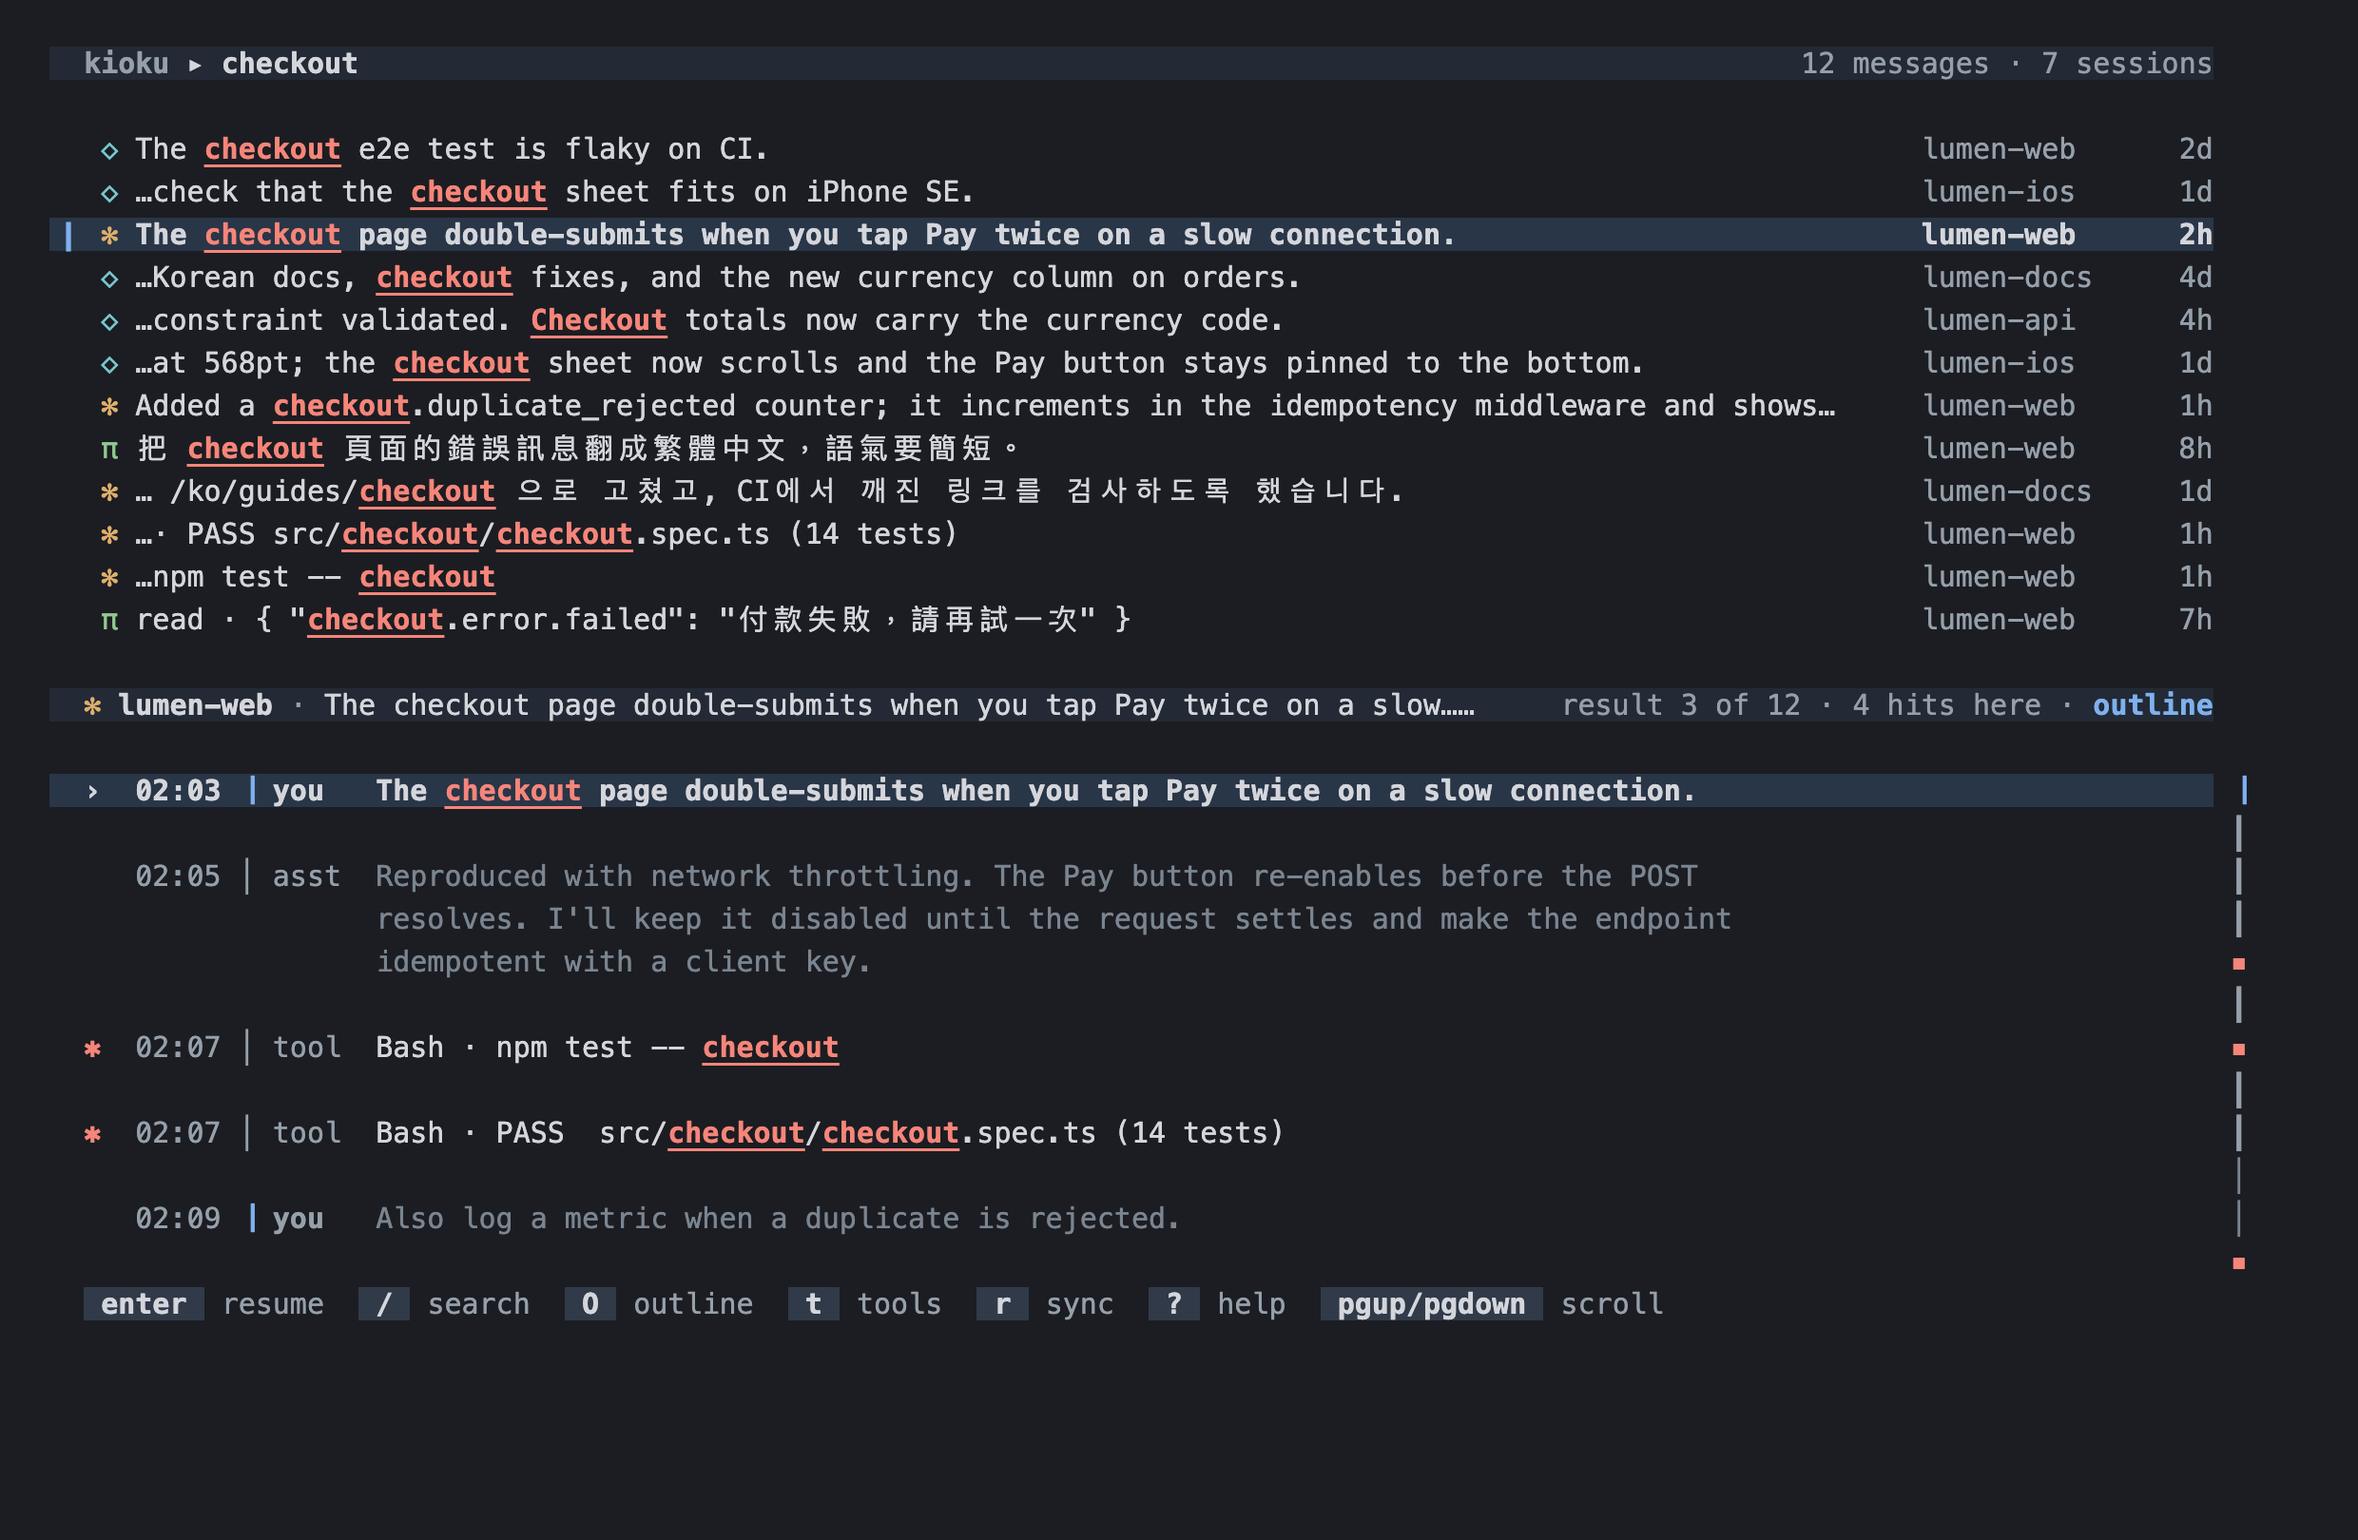
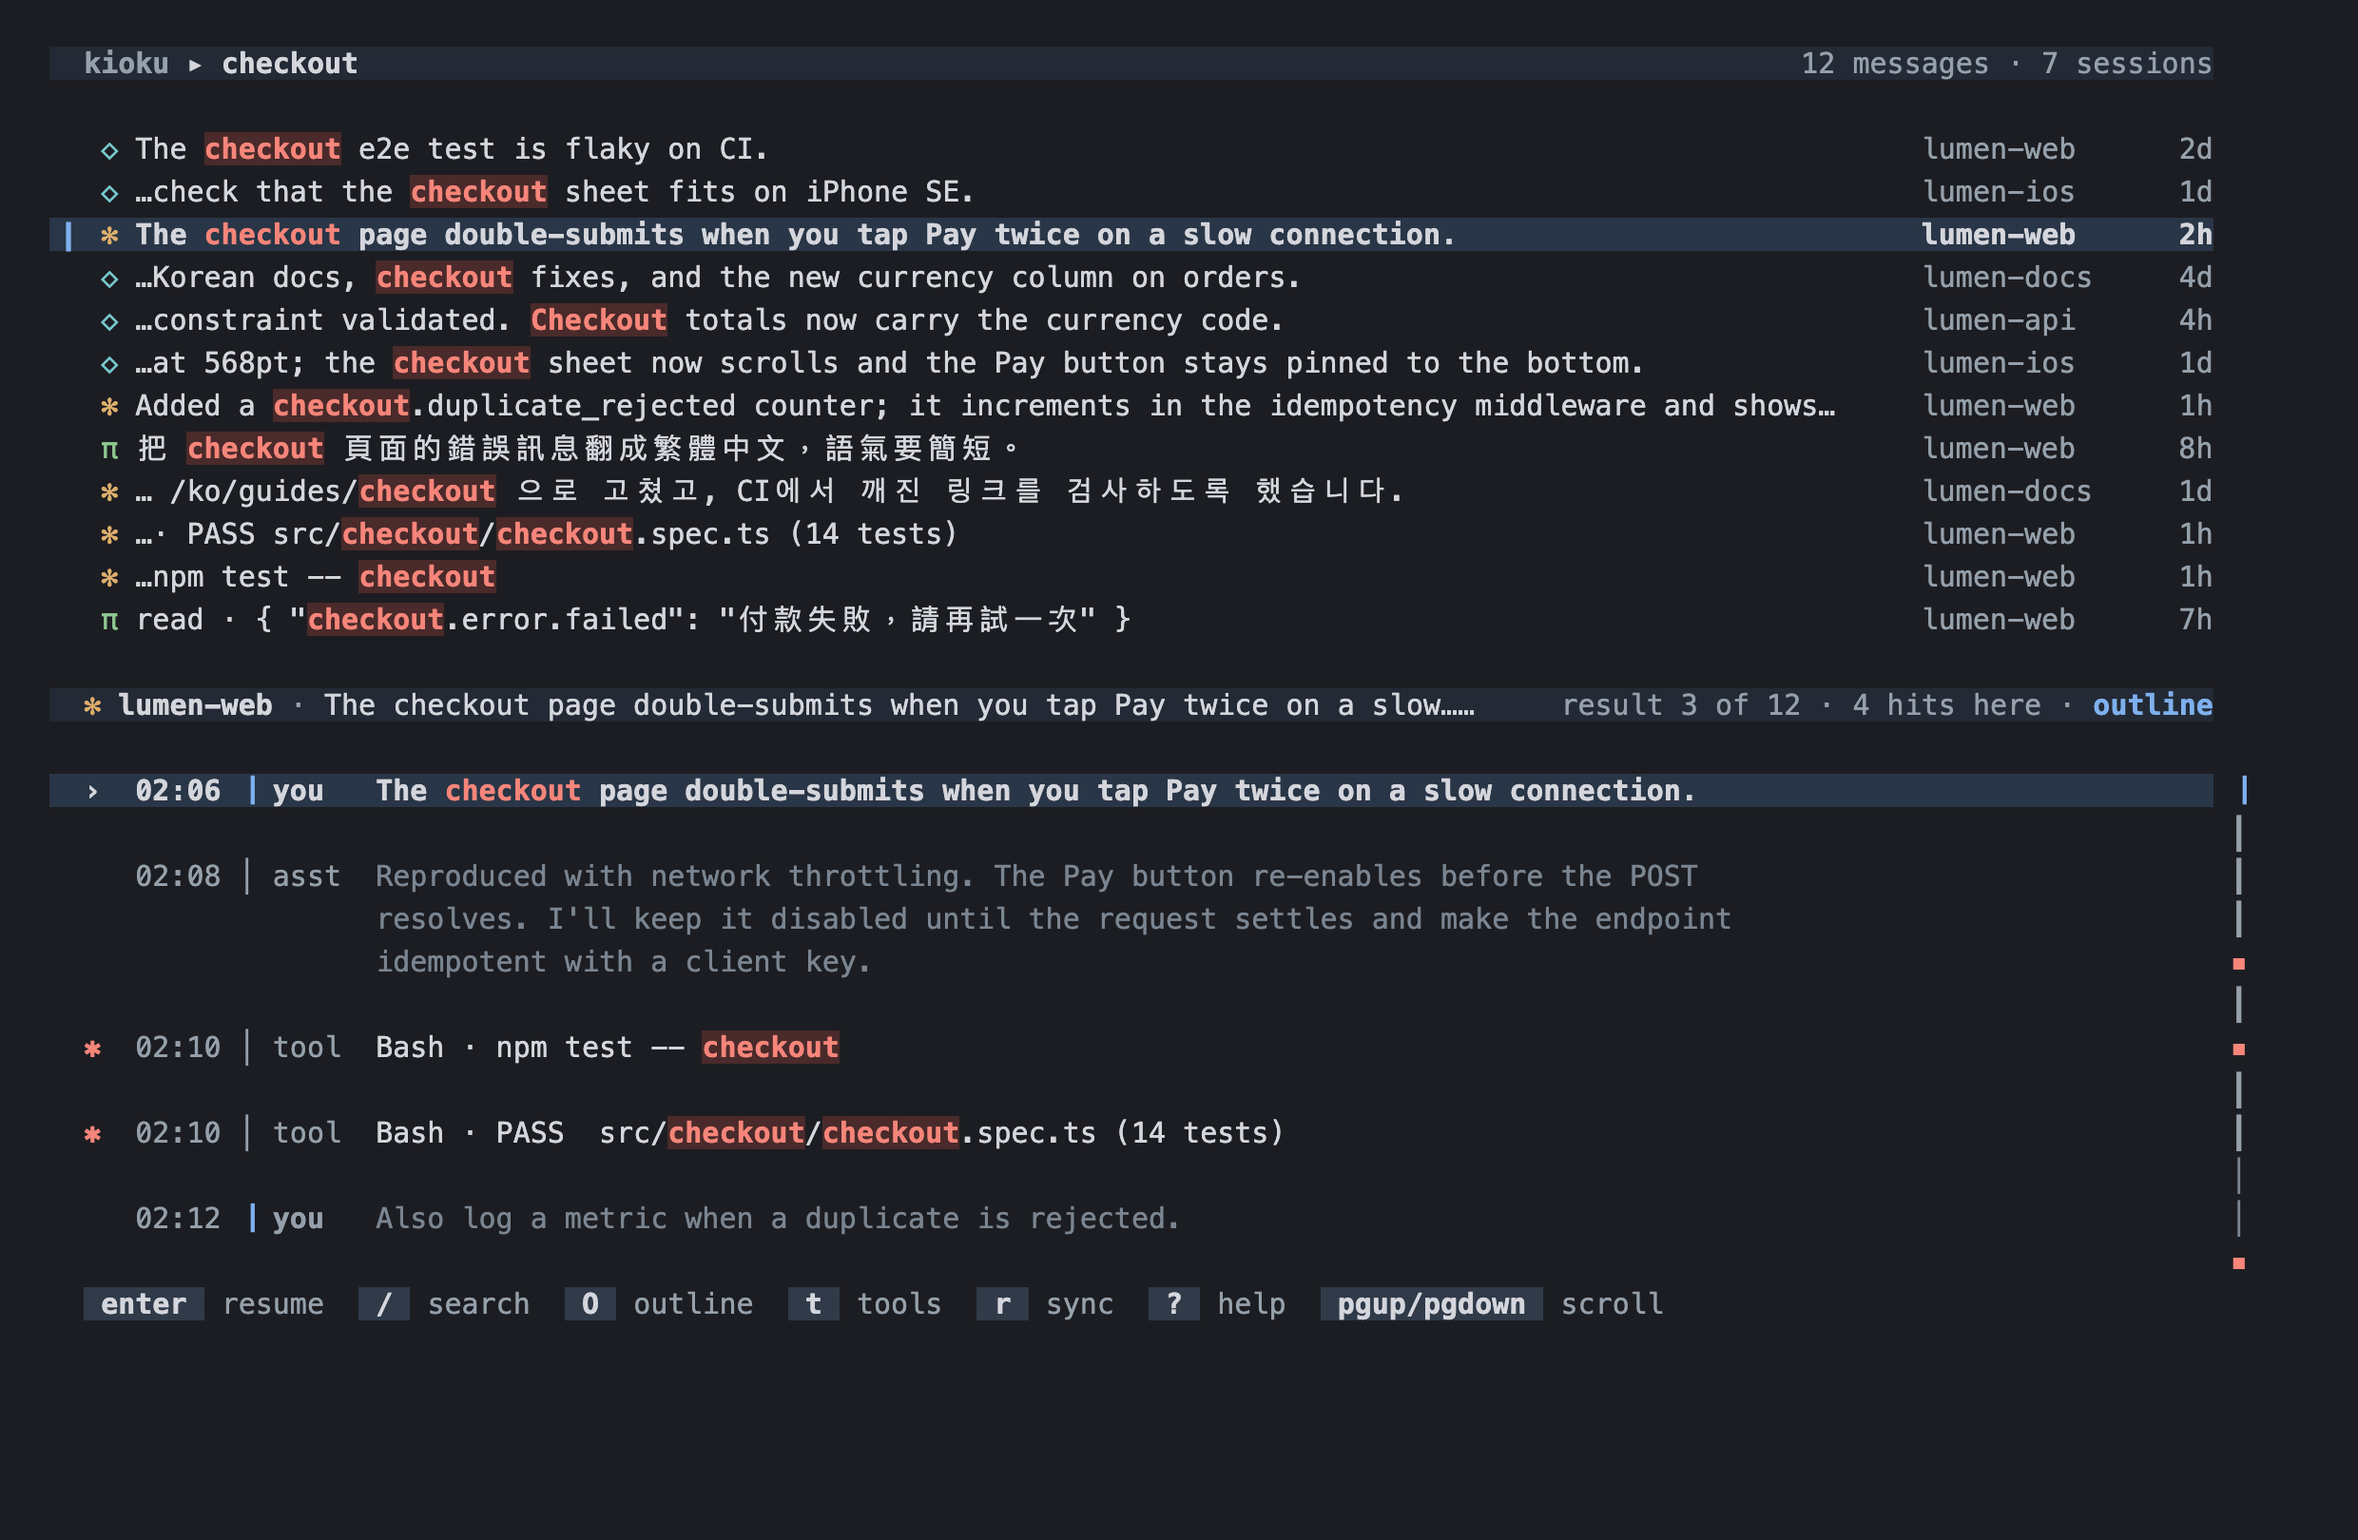
Highlight hits on a tinted background instead of underlining them

diff --git a/ui_b_test.go b/ui_b_test.go
@@ -38,27 +38,38 @@ func TestCursorByMode(t *testing.T) {
 	}
 }
 
-// B2: hit words get a plain underline in the hit colour, never a background or reverse video,
-// so the selected row's band and the hit mark do not collide.
-func TestHitsUseUnderline(t *testing.T) {
+// B2: hit words are a highlighter: hit-coloured bold text on a tinted background, with no
+// underline and no reverse video, so the selected row's band and the hit mark stay apart.
+func TestHitsUseHighlighter(t *testing.T) {
 	m := lookModel(false)
 	m.q = "world"
 	for _, selected := range []bool{false, true} {
 		out := m.paint("hello world", true, selected)
-		if strings.Contains(out, "4:3") || !strings.Contains(out, "38;2;246;133;122") || !strings.Contains(out, ";4;") && !strings.Contains(out, "[4;") && !strings.Contains(out, ";4m") {
-			t.Fatalf("selected=%v: want a plain (not curly) underline in the hit colour: %q", selected, out)
+		if !strings.Contains(out, "38;2;246;133;122") || !strings.Contains(out, "48;2;74;42;42") {
+			t.Fatalf("selected=%v: want hit colour on the highlighter background: %q", selected, out)
 		}
-		if strings.Contains(out, ";7m") || strings.Contains(out, "[7m") || strings.Contains(out, "48;") {
-			t.Fatalf("selected=%v: hit must not use reverse or a background: %q", selected, out)
+		if strings.Contains(out, "4:3") || strings.Contains(out, ";4;") || strings.Contains(out, "[4;") || strings.Contains(out, ";4m") || strings.Contains(out, ";7m") || strings.Contains(out, "[7m") {
+			t.Fatalf("selected=%v: hit must not be underlined or reversed: %q", selected, out)
 		}
 		if ansi.Strip(out) != "hello world" {
 			t.Fatalf("text changed: %q", ansi.Strip(out))
 		}
 	}
 	// With colours stripped (NO_COLOR) the hit must still differ from the text around it.
-	plain := m.paint("hello world", true, false)
-	if !strings.Contains(plain, "\x1b[1") || !strings.Contains(plain, "4") {
-		t.Fatalf("hit keeps bold and underline without colour: %q", plain)
+	if plain := m.paint("hello world", true, false); !strings.Contains(plain, "\x1b[1") {
+		t.Fatalf("hit keeps bold without colour: %q", plain)
+	}
+}
+
+// The highlighter must keep the hit text readable, and stay distinct from the selection band.
+func TestHighlighterContrast(t *testing.T) {
+	for name, p := range map[string]palette{"light": light, "dark": dark} {
+		if got := contrast(p.hit, p.hitbg); got < 3.5 {
+			t.Errorf("%s: hit on highlighter contrast %.2f < 3.5", name, got)
+		}
+		if p.hitbg == p.selbg {
+			t.Errorf("%s: highlighter equals the selection band", name)
+		}
 	}
 }
 

diff --git a/ui.go b/ui.go
@@ -19,12 +19,13 @@ type palette struct {
 	hit, muted, dim, selbg, pulse, surf, acc, key string
 	pens                                          [3]string
 	agents                                        map[string]string // glyph colour per harness; red stays reserved for hits
+	hitbg                                         string            // highlighter behind matched words
 }
 
 var light = palette{"#b6322d", "#56606a", "#727c87", "#d2e3f9", "#bfd8f8", "#eef3f9", "#2a64b0", "#e3eaf3", [3]string{"#fde89a", "#bdfac8", "#ffe0f2"},
-	harnessColors(false)}
+	harnessColors(false), "#f8d7d3"}
 var dark = palette{"#f6857a", "#95a0ab", "#7a8591", "#293647", "#364b68", "#232a35", "#7fb0ee", "#303a49", [3]string{"#3c3207", "#193b22", "#492537"},
-	harnessColors(true)}
+	harnessColors(true), "#4a2a2a"}
 
 type pen struct {
 	word  string

diff --git a/ui_text.go b/ui_text.go
@@ -140,7 +140,7 @@ func (m model) paint(s string, query, selected bool) string {
 				style = style.Bold(true)
 			}
 			if h[i] {
-				style = style.Foreground(lipgloss.Color(m.pal.hit)).Underline(true).Bold(true)
+				style = style.Foreground(lipgloss.Color(m.pal.hit)).Background(lipgloss.Color(m.pal.hitbg)).Bold(true)
 			}
 			if marks[i] >= 0 {
 				style = style.Background(lipgloss.Color(m.pal.pens[marks[i]]))

diff --git a/CHANGELOG.md b/CHANGELOG.md
@@ -3,7 +3,7 @@
 ## Unreleased
 
 ### Changed
-- TUI: hit words use a plain underline instead of a curly one, which read as noise on long result lists.
+- TUI: hit words are highlighted on a tinted background instead of underlined; the curly underline read as noise on long result lists.
 - TUI: result snippets stop two columns earlier, leaving a clear gutter before the project column.
 - TUI: a tall window gives the result list half of its height.
 
